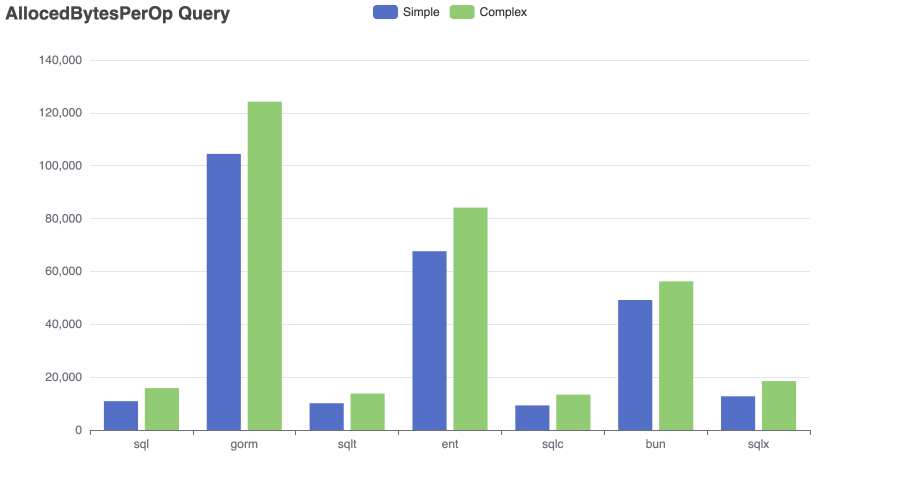
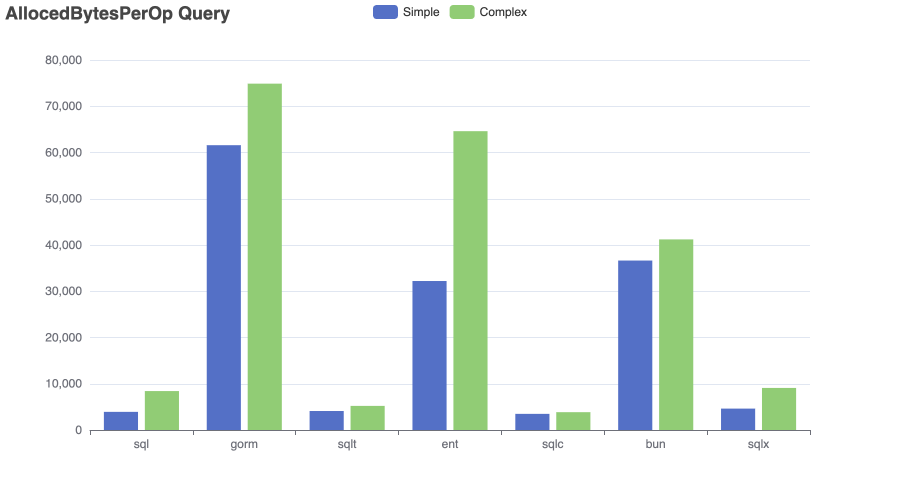
fix simple and complex query results

diff --git a/bench-flix_test.go b/bench-flix_test.go
@@ -85,19 +85,24 @@ var (
 		{
 			Name: "Complex",
 			Query: benchflix.Query{
-				Search:  "Affleck",
-				Country: "United Kingdom",
-				Genre:   "Drama",
+				Search:      "Affleck",
+				Country:     "United Kingdom",
+				Genre:       "Drama",
+				AddedAfter:  time.Date(2020, 1, 1, 0, 0, 0, 0, time.UTC),
+				AddedBefore: time.Date(2025, 1, 1, 0, 0, 0, 0, time.UTC),
+				MinRating:   4,
+				MaxRating:   8,
+				Limit:       1,
 			},
-			Result: `[{68734 Argo 2012-10-11 00:00:00 +0000 UTC [Ben Affleck] [Alan Arkin Ben Affleck Bryan Cranston John Goodman Victor Garber] [United Kingdom United States of America] 7.278 [Drama Thriller]} {157336 Interstellar 2014-11-05 00:00:00 +0000 UTC [Christopher Nolan] [Anne Hathaway Casey Affleck Jessica Chastain Matthew McConaughey Michael Caine] [United Kingdom United States of America] 8.5 [Adventure Drama Science Fiction]} {37414 The Killer Inside Me 2010-02-19 00:00:00 +0000 UTC [Michael Winterbottom] [Casey Affleck Jessica Alba Kate Hudson Ned Beatty Tom Bower] [Canada Sweden United Kingdom United States of America] 5.8 [Crime Drama Thriller]} {505225 The Last Thing He Wanted 2020-02-14 00:00:00 +0000 UTC [Dee Rees] [Anne Hathaway Ben Affleck Edi Gathegi Rosie Perez Willem Dafoe] [United Kingdom United States of America] 4.9 [Drama Thriller]} {23168 The Town 2010-09-15 00:00:00 +0000 UTC [Ben Affleck] [Ben Affleck Blake Lively Jeremy Renner Jon Hamm Rebecca Hall] [United Kingdom United States of America] 7.2 [Crime Drama Thriller]}]`,
+			Result: `[{505225 The Last Thing He Wanted 2020-02-14 00:00:00 +0000 UTC [Dee Rees] [Anne Hathaway Ben Affleck Edi Gathegi Rosie Perez Willem Dafoe] [United Kingdom United States of America] 4.9 [Drama Thriller]}]`,
 		},
 		{
 			Name: "Simple",
 			Query: benchflix.Query{
-				Search:     "Affleck",
-				AddedAfter: time.Date(2024, 1, 1, 0, 0, 0, 0, time.UTC),
+				MinRating: 9,
+				Limit:     1,
 			},
-			Result: `[{916728 Slingshot 2024-08-30 00:00:00 +0000 UTC [Mikael Håfström] [Casey Affleck David Morrissey Emily Beecham Laurence Fishburne Tomer Capone] [Hungary United States of America] 6.1 [Science Fiction Thriller]} {870028 The Accountant 2 2025-04-23 00:00:00 +0000 UTC [Gavin O'Connor] [Ben Affleck Cynthia Addai-Robinson Daniella Pineda J.K. Simmons Jon Bernthal] [United States of America] 0 [Action Crime Thriller]} {1059064 The Instigators 2024-08-02 00:00:00 +0000 UTC [Doug Liman] [Casey Affleck Jack Harlow Matt Damon Michael Stuhlbarg Ving Rhames] [United States of America] 6.2 [Action Comedy Crime]} {1217343 This Is Me…Now 2024-02-15 00:00:00 +0000 UTC [Dave Meyers] [Ben Affleck Fat Joe Idaliz Christian Jennifer Lopez Matthew Law] [United States of America] 5.3 [Drama Music]}]`,
+			Result: `[{1310741 A Brother and 7 Siblings 2025-01-23 00:00:00 +0000 UTC [Yandy Laurens] [Ahmad Nadif Amanda Rawles Chicco Kurniawan Fatih Unru Freya Jayawardana] [Indonesia] 9.3 [Drama Family]}]`,
 		},
 		{
 			Name: "10",

diff --git a/cmd/main.go b/cmd/main.go
@@ -7,12 +7,12 @@ import (
 	"os"
 
 	benchflix "github.com/wroge/bench-flix"
-	sqlxflix "github.com/wroge/bench-flix/sqlx-flix"
+	sqltflix "github.com/wroge/bench-flix/sqlt-flix"
 )
 
 func main() {
 	ctx := context.Background()
-	r := sqlxflix.NewRepository("sqlite3", ":memory:?_fk=1")
+	r := sqltflix.NewRepository("sqlite3", ":memory:?_fk=1")
 
 	file, err := os.Open("./movies.csv")
 	if err != nil {
@@ -36,7 +36,16 @@ func main() {
 	}
 
 	movies, err := r.Query(ctx, benchflix.Query{
-		Limit: 10,
+		MinRating: 9,
+		Limit:     1,
+		// Search:      "Affleck",
+		// Country:     "United Kingdom",
+		// Genre:       "Drama",
+		// AddedAfter:  time.Date(2020, 1, 1, 0, 0, 0, 0, time.UTC),
+		// AddedBefore: time.Date(2025, 1, 1, 0, 0, 0, 0, time.UTC),
+		// MinRating:   4,
+		// MaxRating:   8,
+		// Limit:       1,
 	})
 	if err != nil {
 		panic(err)

diff --git a/README.md b/README.md
@@ -15,7 +15,8 @@ I’m open to feedback and suggestions — I’m not an expert in every tool and
 - ent: [entgo.io](https://entgo.io/)
 - sqlc: [sqlc.dev](https://sqlc.dev/)
 - bun: [bun.uptrace.dev](https://bun.uptrace.dev/)
-- ~~xorm: [xorm.io](https://xorm.io/)~~ (this framework doesn't meet the requirements)
+- sqlx: [jmoiron/sqlx](https://jmoiron.github.io/sqlx/)
+- bob: [stephenafamo/bob](https://bob.stephenafamo.com/docs/)
 - sqlt: [wroge/sqlt](https://github.com/wroge/sqlt) (my own package)
 
 ## Benchmark
@@ -31,50 +32,92 @@ goos: darwin
 goarch: arm64
 pkg: github.com/wroge/bench-flix
 cpu: Apple M3 Pro
-BenchmarkSchemaAndCreate/sql-12         	      12	  94192156 ns/op	10295913 B/op	  252159 allocs/op
-BenchmarkSchemaAndCreate/gorm-12        	       6	 188869840 ns/op	90620432 B/op	 1125674 allocs/op
-BenchmarkSchemaAndCreate/sqlt-12        	       8	 127440062 ns/op	20821134 B/op	  546898 allocs/op
-BenchmarkSchemaAndCreate/ent-12         	       6	 174696035 ns/op	40317310 B/op	 1001965 allocs/op
-BenchmarkSchemaAndCreate/sqlc-12        	       7	 151415839 ns/op	14811450 B/op	  462511 allocs/op
-BenchmarkSchemaAndCreate/bun-12         	       7	 163031387 ns/op	82714694 B/op	  428163 allocs/op
-BenchmarkCreateAndDelete/sql-12         	       9	 114430051 ns/op	10549271 B/op	  262998 allocs/op
-BenchmarkCreateAndDelete/gorm-12        	       6	 187193868 ns/op	93430736 B/op	 1160478 allocs/op
-BenchmarkCreateAndDelete/sqlt-12        	       7	 146626679 ns/op	21254501 B/op	  560123 allocs/op
-BenchmarkCreateAndDelete/ent-12         	       6	 192929549 ns/op	42221965 B/op	 1043993 allocs/op
-BenchmarkCreateAndDelete/sqlc-12        	       6	 169680799 ns/op	15097354 B/op	  474389 allocs/op
-BenchmarkCreateAndDelete/bun-12         	       6	 182425278 ns/op	87621037 B/op	  442113 allocs/op
-BenchmarkQuery/Complex_sql-12           	      55	  22178755 ns/op	   15814 B/op	     271 allocs/op
-BenchmarkQuery/Complex_gorm-12          	     164	   7169174 ns/op	  124228 B/op	    2450 allocs/op
-BenchmarkQuery/Complex_sqlt-12          	      50	  22178939 ns/op	   14452 B/op	     316 allocs/op
-BenchmarkQuery/Complex_ent-12           	      50	  22478129 ns/op	   84158 B/op	    1914 allocs/op
-BenchmarkQuery/Complex_sqlc-12          	      37	  31031416 ns/op	   13377 B/op	     250 allocs/op
-BenchmarkQuery/Complex_bun-12           	      50	  23108088 ns/op	   56310 B/op	    1126 allocs/op
-BenchmarkQuery/_sql-12               	     343	   3426541 ns/op	   10923 B/op	     218 allocs/op
-BenchmarkQuery/_gorm-12              	     202	   5838976 ns/op	  104482 B/op	    2029 allocs/op
-BenchmarkQuery/_sqlt-12              	     350	   3401246 ns/op	   10158 B/op	     252 allocs/op
-BenchmarkQuery/_ent-12               	      67	  17645468 ns/op	   67651 B/op	    1540 allocs/op
-BenchmarkQuery/_sqlc-12              	     267	   4466532 ns/op	    9206 B/op	     201 allocs/op
-BenchmarkQuery/_bun-12               	     334	   3541502 ns/op	   49183 B/op	     898 allocs/op
-BenchmarkQuery/Simple_sql-12            	    1743	    682867 ns/op	   79277 B/op	    1676 allocs/op
-BenchmarkQuery/Simple_gorm-12           	     882	   1315990 ns/op	  606285 B/op	   12286 allocs/op
-BenchmarkQuery/Simple_sqlt-12           	    1738	    679618 ns/op	   85272 B/op	    1863 allocs/op
-BenchmarkQuery/Simple_ent-12            	    1326	    896325 ns/op	  314250 B/op	    6698 allocs/op
-BenchmarkQuery/Simple_sqlc-12           	    1374	    862498 ns/op	   89702 B/op	    1513 allocs/op
-BenchmarkQuery/Simple_bun-12            	    1358	    877769 ns/op	  200469 B/op	    5928 allocs/op
-BenchmarkRead/sql-12                    	   46920	     25432 ns/op	    2384 B/op	      69 allocs/op
-BenchmarkRead/gorm-12                   	   13766	     86810 ns/op	   60055 B/op	    1004 allocs/op
-BenchmarkRead/sqlt-12                   	   44396	     26983 ns/op	    3521 B/op	      93 allocs/op
-BenchmarkRead/ent-12                    	   20720	     58388 ns/op	   33623 B/op	     848 allocs/op
-BenchmarkRead/sqlc-12                   	   37092	     32088 ns/op	    2296 B/op	      67 allocs/op
-BenchmarkRead/bun-12                    	   25534	     46816 ns/op	   36544 B/op	     414 allocs/op
+BenchmarkSchemaAndCreate/10_sql-12         	      12	  94747483 ns/op	10293553 B/op	  252126 allocs/op
+BenchmarkSchemaAndCreate/100_sql-12        	      12	  92439802 ns/op	10274315 B/op	  252067 allocs/op
+BenchmarkSchemaAndCreate/1000_sql-12       	      12	  92890972 ns/op	10271514 B/op	  252050 allocs/op
+BenchmarkSchemaAndCreate/10_gorm-12        	       6	 187748576 ns/op	90605878 B/op	 1125615 allocs/op
+BenchmarkSchemaAndCreate/100_gorm-12       	       6	 187661930 ns/op	90593441 B/op	 1125498 allocs/op
+BenchmarkSchemaAndCreate/1000_gorm-12      	       6	 186173944 ns/op	90604456 B/op	 1125680 allocs/op
+BenchmarkSchemaAndCreate/10_sqlt-12        	       9	 123606148 ns/op	21101958 B/op	  548847 allocs/op
+BenchmarkSchemaAndCreate/100_sqlt-12       	       9	 120641694 ns/op	21159453 B/op	  549308 allocs/op
+BenchmarkSchemaAndCreate/1000_sqlt-12      	       9	 121483732 ns/op	21128496 B/op	  549134 allocs/op
+BenchmarkSchemaAndCreate/10_ent-12         	       6	 168642896 ns/op	40377832 B/op	 1002504 allocs/op
+BenchmarkSchemaAndCreate/100_ent-12        	       6	 172000257 ns/op	40356352 B/op	 1002256 allocs/op
+BenchmarkSchemaAndCreate/1000_ent-12       	       6	 172123875 ns/op	40344722 B/op	 1002214 allocs/op
+BenchmarkSchemaAndCreate/10_sqlc-12        	       7	 150208357 ns/op	14914244 B/op	  463399 allocs/op
+BenchmarkSchemaAndCreate/100_sqlc-12       	       7	 150649024 ns/op	14890195 B/op	  463187 allocs/op
+BenchmarkSchemaAndCreate/1000_sqlc-12      	       7	 152149202 ns/op	14881841 B/op	  463105 allocs/op
+BenchmarkSchemaAndCreate/10_bun-12         	       7	 164159810 ns/op	82727981 B/op	  428286 allocs/op
+BenchmarkSchemaAndCreate/100_bun-12        	       7	 164568946 ns/op	82718881 B/op	  428281 allocs/op
+BenchmarkSchemaAndCreate/1000_bun-12       	       7	 163267958 ns/op	82732716 B/op	  428422 allocs/op
+BenchmarkSchemaAndCreate/10_sqlx-12        	      12	  96329257 ns/op	11195435 B/op	  290384 allocs/op
+BenchmarkSchemaAndCreate/100_sqlx-12       	      12	  95201597 ns/op	11210752 B/op	  290518 allocs/op
+BenchmarkSchemaAndCreate/1000_sqlx-12      	      12	  92251628 ns/op	11257504 B/op	  290930 allocs/op
+BenchmarkCreateAndDelete/10_sql-12         	    1333	    898060 ns/op	   99334 B/op	    2322 allocs/op
+BenchmarkCreateAndDelete/100_sql-12        	     100	  10415371 ns/op	 1073461 B/op	   25805 allocs/op
+BenchmarkCreateAndDelete/1000_sql-12       	       9	 111320505 ns/op	10600969 B/op	  263450 allocs/op
+BenchmarkCreateAndDelete/10_gorm-12        	     752	   1587115 ns/op	  856787 B/op	   10630 allocs/op
+BenchmarkCreateAndDelete/100_gorm-12       	      63	  17774930 ns/op	 9311363 B/op	  115741 allocs/op
+BenchmarkCreateAndDelete/1000_gorm-12      	       6	 184593875 ns/op	93450822 B/op	 1160658 allocs/op
+BenchmarkCreateAndDelete/10_sqlt-12        	     970	   1231880 ns/op	  199993 B/op	    5174 allocs/op
+BenchmarkCreateAndDelete/100_sqlt-12       	      85	  14055080 ns/op	 2159466 B/op	   56188 allocs/op
+BenchmarkCreateAndDelete/1000_sqlt-12      	       7	 146101262 ns/op	21441068 B/op	  560566 allocs/op
+BenchmarkCreateAndDelete/10_ent-12         	     697	   1715951 ns/op	  408148 B/op	    9917 allocs/op
+BenchmarkCreateAndDelete/100_ent-12        	      60	  19153415 ns/op	 4363839 B/op	  106894 allocs/op
+BenchmarkCreateAndDelete/1000_ent-12       	       6	 191095333 ns/op	42286826 B/op	 1044572 allocs/op
+BenchmarkCreateAndDelete/10_sqlc-12        	     819	   1488956 ns/op	  148099 B/op	    4534 allocs/op
+BenchmarkCreateAndDelete/100_sqlc-12       	      69	  16533521 ns/op	 1585974 B/op	   48948 allocs/op
+BenchmarkCreateAndDelete/1000_sqlc-12      	       6	 168960792 ns/op	15243298 B/op	  475650 allocs/op
+BenchmarkCreateAndDelete/10_bun-12         	     730	   1629372 ns/op	  839396 B/op	    4207 allocs/op
+BenchmarkCreateAndDelete/100_bun-12        	      62	  18261066 ns/op	 8988730 B/op	   45271 allocs/op
+BenchmarkCreateAndDelete/1000_bun-12       	       6	 184972465 ns/op	87590736 B/op	  441857 allocs/op
+BenchmarkCreateAndDelete/10_sqlx-12        	    1261	    948791 ns/op	  107493 B/op	    2688 allocs/op
+BenchmarkCreateAndDelete/100_sqlx-12       	     100	  10934012 ns/op	 1161774 B/op	   29714 allocs/op
+BenchmarkCreateAndDelete/1000_sqlx-12      	       9	 116843819 ns/op	11465091 B/op	  301248 allocs/op
+BenchmarkQuery/Complex_sql-12              	     147	   8085473 ns/op	    8418 B/op	     101 allocs/op
+BenchmarkQuery/Complex_gorm-12             	     208	   5817499 ns/op	   74887 B/op	    1154 allocs/op
+BenchmarkQuery/Complex_sqlt-12             	     145	   8332847 ns/op	    5212 B/op	     112 allocs/op
+BenchmarkQuery/Complex_ent-12              	      54	  21723368 ns/op	   64611 B/op	    1282 allocs/op
+BenchmarkQuery/Complex_sqlc-12             	     100	  10538061 ns/op	    3854 B/op	      91 allocs/op
+BenchmarkQuery/Complex_bun-12              	     142	   8331094 ns/op	   41210 B/op	     462 allocs/op
+BenchmarkQuery/Complex_sqlx-12             	     144	   8254198 ns/op	    9095 B/op	     103 allocs/op
+BenchmarkQuery/Simple_sql-12               	    2894	    415108 ns/op	    3922 B/op	      83 allocs/op
+BenchmarkQuery/Simple_gorm-12              	    2600	    465849 ns/op	   61580 B/op	     978 allocs/op
+BenchmarkQuery/Simple_sqlt-12              	    2889	    416883 ns/op	    4107 B/op	     103 allocs/op
+BenchmarkQuery/Simple_ent-12               	    2758	    435207 ns/op	   32214 B/op	     822 allocs/op
+BenchmarkQuery/Simple_sqlc-12              	    1993	    595026 ns/op	    3490 B/op	      77 allocs/op
+BenchmarkQuery/Simple_bun-12               	    2716	    442086 ns/op	   36639 B/op	     406 allocs/op
+BenchmarkQuery/Simple_sqlx-12              	    2870	    416838 ns/op	    4626 B/op	      85 allocs/op
+BenchmarkQuery/10_sql-12                   	     984	   1209962 ns/op	   21239 B/op	     461 allocs/op
+BenchmarkQuery/10_gorm-12                  	     747	   1597731 ns/op	  178377 B/op	    3798 allocs/op
+BenchmarkQuery/10_sqlt-12                  	     986	   1211179 ns/op	   23030 B/op	     529 allocs/op
+BenchmarkQuery/10_ent-12                   	    1276	    934232 ns/op	   98819 B/op	    2269 allocs/op
+BenchmarkQuery/10_sqlc-12                  	     633	   1885310 ns/op	   23617 B/op	     425 allocs/op
+BenchmarkQuery/10_bun-12                   	    1264	    923224 ns/op	   71755 B/op	    1741 allocs/op
+BenchmarkQuery/10_sqlx-12                  	     985	   1208230 ns/op	   26268 B/op	     436 allocs/op
+BenchmarkQuery/100_sql-12                  	     292	   4070899 ns/op	  186909 B/op	    4254 allocs/op
+BenchmarkQuery/100_gorm-12                 	     314	   3784905 ns/op	 1534801 B/op	   30597 allocs/op
+BenchmarkQuery/100_sqlt-12                 	     292	   4099885 ns/op	  203563 B/op	    4766 allocs/op
+BenchmarkQuery/100_ent-12                  	     517	   2344933 ns/op	  772213 B/op	   16487 allocs/op
+BenchmarkQuery/100_sqlc-12                 	     240	   4973996 ns/op	  207996 B/op	    3861 allocs/op
+BenchmarkQuery/100_bun-12                  	     535	   2229148 ns/op	  436369 B/op	   15238 allocs/op
+BenchmarkQuery/100_sqlx-12                 	     292	   4075369 ns/op	  228297 B/op	    3959 allocs/op
+BenchmarkRead/sql-12                       	   45832	     25445 ns/op	    2384 B/op	      69 allocs/op
+BenchmarkRead/gorm-12                      	   13706	     87428 ns/op	   60054 B/op	    1004 allocs/op
+BenchmarkRead/sqlt-12                      	   43888	     28266 ns/op	    3649 B/op	      93 allocs/op
+BenchmarkRead/ent-12                       	   20515	     59114 ns/op	   33622 B/op	     848 allocs/op
+BenchmarkRead/sqlc-12                      	   33702	     32767 ns/op	    2296 B/op	      67 allocs/op
+BenchmarkRead/bun-12                       	   25022	     47558 ns/op	   36543 B/op	     414 allocs/op
+BenchmarkRead/sqlx-12                      	   46190	     25899 ns/op	    2784 B/op	      70 allocs/op
 PASS
-ok  	github.com/wroge/bench-flix	101.308s
+ok  	github.com/wroge/bench-flix	173.256s
 ```
 
 ## Charts
 
 ```bash
 cat bench.out | go run ./cmd/chart/main.go --unit=NsPerOp --benchmark=Query --variants=Simple,Complex
+cat bench.out | go run ./cmd/chart/main.go --unit=NsPerOp --benchmark=Query --variants=Simple
 cat bench.out | go run ./cmd/chart/main.go --unit=AllocedBytesPerOp --benchmark=Query --variants=Simple,Complex
 cat bench.out | go run ./cmd/chart/main.go --unit=AllocsPerOp --benchmark=Query --variants=Simple,Complex
 
@@ -106,6 +149,7 @@ cat bench.out | go run ./cmd/chart/main.go --unit=AllocsPerOp --benchmark=Create
 ### Query
 
 ![BenchmarkQuery NsPerOp](charts/Query_NsPerOp_SimpleComplex.png)
+![BenchmarkQuery Simple NsPerOp](charts/Query_NsPerOp_Simple.png)
 ![BenchmarkQuery AllocsPerOp](charts/Query_AllocsPerOp_SimpleComplex.png)
 ![BenchmarkQuery AllocedBytesPerOp](charts/Query_AllocedBytesPerOp_SimpleComplex.png)
 
